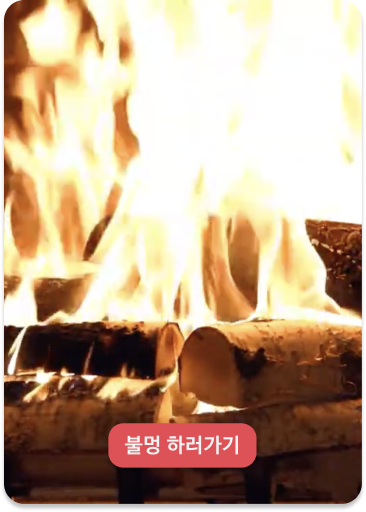
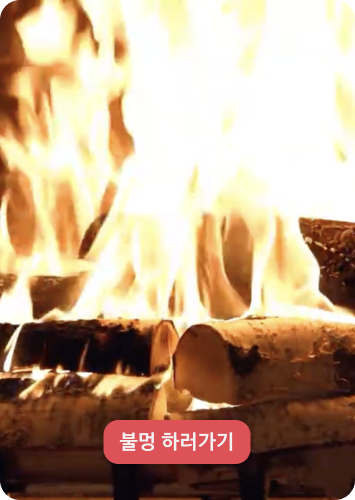
Hover

diff --git a/src/components/Web/Web-HomePage/Web-HomeSecond.js b/src/components/Web/Web-HomePage/Web-HomeSecond.js
@@ -8,7 +8,7 @@ import Sand from "../../../Assets/img/Sand.png";
 
 import FireHover from "../../../Assets/img/FireHover.png";
 import ForestHover from "../../../Assets/img/ForestHover.png";
-import SandHover from "../../../Assets/img/SandHover.png";
+import SandHover from "../../../Assets/img/WaterHover.png";
 
 import ComeBack from "../../../Assets/img/ComeBack.png";
 import FireBack from "../../../Assets/img/FireBack.png";
@@ -53,18 +53,23 @@ const CardsContainer = styled.div`
   padding-top: 1800px;
   padding-left: 1300px;
 
-  @media (max-width: 1440px) {
-    padding-top: 1700px;
-    padding-left: 1000px;
-  }
-
   @media (max-width: 1024px) {
     padding-top: 1800px;
     padding-left: 800px;
   }
+  @media (max-width: 1280px) {
+    padding-top: 1800px;
+    padding-left: 800px;
+  }
+  @media (max-width: 1440px) {
+    padding-top: 1800px;
+    padding-left: 1300px;
+  }
 `;
 
 const CardWrapper = styled.div`
+  background-image: url(${(props) =>
+    props.hovered ? props.hoverImage : props.background});
   background-size: cover;
   width: 350px;
   height: 500px;
@@ -75,7 +80,7 @@ const CardWrapper = styled.div`
   display: flex;
   align-items: center;
   justify-content: center;
-  transition: transform 0.3s ease-in-out;
+  transition: transform 0.3s ease-in-out, background-image 0.3s ease-in-out;
   cursor: pointer;
   border-radius: 20px;
 `;
@@ -87,19 +92,16 @@ const Card1 = styled(CardWrapper)`
 `;
 
 const Card2 = styled(CardWrapper)`
-  background-image: url(${Fire});
   background-size: cover;
   background-position: center;
 `;
 
 const Card3 = styled(CardWrapper)`
-  background-image: url(${Forest});
   background-size: cover;
   background-position: center;
 `;
 
 const Card4 = styled(CardWrapper)`
-  background-image: url(${Sand});
   background-size: cover;
   background-position: center;
 `;
@@ -195,16 +197,14 @@ const CircleOfCards = ({ setBackgroundImage, setTheme }) => {
           // Rotate Right
           rotateRight();
           break;
-        case "Enter":
-          // Simulate clicking the center card
-          const adjustedRotation = (rotation + 360) % 360;
-          const cardIndex =
-            Math.round(adjustedRotation / angleIncrement) % cards.length;
-          handleClick(cardIndex);
-          break;
         default:
           break;
       }
+
+      const adjustedRotation = (rotation + 360) % 360;
+      const cardIndex =
+        Math.round(adjustedRotation / angleIncrement) % cards.length;
+      setActiveDotIndex(cardIndex);
     };
 
     // Add the event listener
@@ -333,15 +333,39 @@ const CircleOfCards = ({ setBackgroundImage, setTheme }) => {
     const cardRotation = (i * angleIncrement + closestCardRotation) % 360;
     const verticalRotation = 90 - cardRotation;
 
-    const CardComponent = cards[i % cards.length];
+    let backgroundImage;
+    let hoverImage;
+    switch (i % cards.length) {
+      case 0: // Card1
+        backgroundImage = Come;
+        hoverImage = Come;
+        break;
+      case 1: // Card2
+        backgroundImage = Fire; // 호버되지 않았을 때
+        hoverImage = FireHover; // 호버될 때
+        break;
+      case 2: // Card3
+        backgroundImage = Forest; // 호버되지 않았을 때
+        hoverImage = ForestHover; // 호버될 때
+        break;
+      case 3: // Card4
+        backgroundImage = Sand; // 호버되지 않았을 때
+        hoverImage = SandHover; // 호버될 때
+        break;
+      default:
+        backgroundImage = null;
+        hoverImage = null;
+        break;
+    }
 
     cardComponents.push(
-      <CardComponent
+      <CardWrapper
         key={i}
+        hovered={isHovered[i]}
+        background={backgroundImage}
+        hoverImage={hoverImage}
         style={{
-          transform: `rotate(${verticalRotation}deg) translateY(-${radius}px)${
-            isHovered[i] ? " " : ""
-          }`,
+          transform: `rotate(${verticalRotation}deg) translateY(-${radius}px)`,
         }}
         onMouseEnter={() => {
           const newIsHovered = [...isHovered];
@@ -354,7 +378,7 @@ const CircleOfCards = ({ setBackgroundImage, setTheme }) => {
           setIsHovered(newIsHovered);
         }}
         onClick={() => handleClick(i)}
-      ></CardComponent>
+      ></CardWrapper>
     );
   }
 
